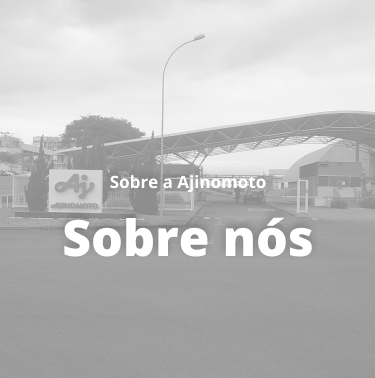
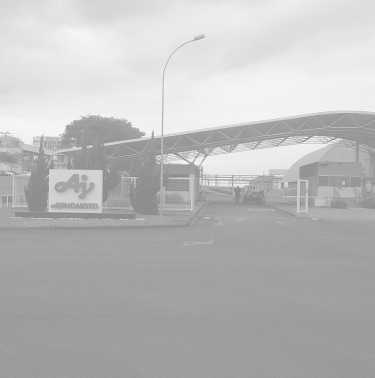
fix: ajustes finos, termino institucional

Changed region(s): [[0.1467, 0.582, 0.5573, 0.6984], [0.5867, 0.5529, 0.8507, 0.6984], [0.2933, 0.4656, 0.704, 0.5238]]

diff --git a/styles/scss/modules/institucional/_store-components.scss b/styles/scss/modules/institucional/_store-components.scss
@@ -75,6 +75,38 @@
 }
 
 //QUEM SOMOS
+.infoCardContainer--fullbanner-institucional {
+    width: 100% !important;;
+    height: 100%;
+    min-height: 300px;
+	background-color: $black;
+	@include media(">phone", "<=tablet") {
+		min-height: 215px;
+	}
+	@include media("<=phone") {
+		min-height: 378px;
+	}
+}
+
+.infoCardTextContainer--fullbanner-institucional {
+	.heading--fullbanner-institucional {
+		color: $white;
+		text-align: center;
+		text-shadow: 0px -4px 11px rgba(0, 0, 0, 0.25);
+		font-family: $OpenSans;
+		font-size: 50px;
+		font-style: normal;
+		font-weight: 800;
+		line-height: normal;
+
+		@include media ("<=phone") {
+			font-weight: $bold;
+		}
+
+	}
+}
+
+
 .infoCardContainer--institucional--origem {
 	justify-content: center;
 	align-items: flex-start;
